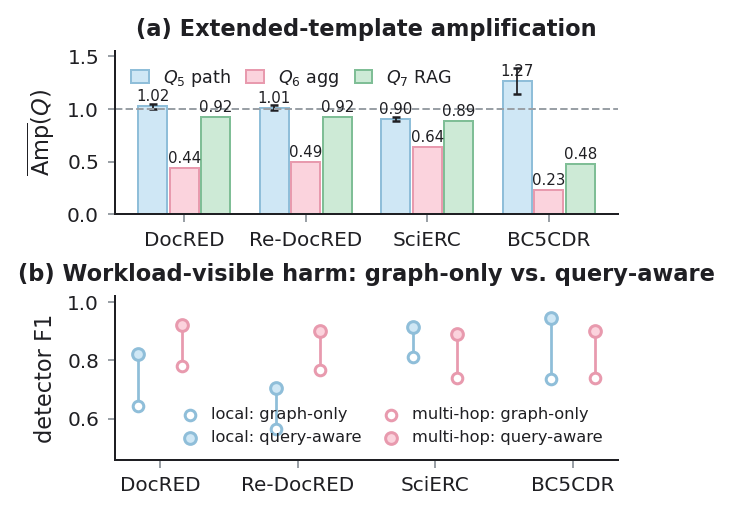
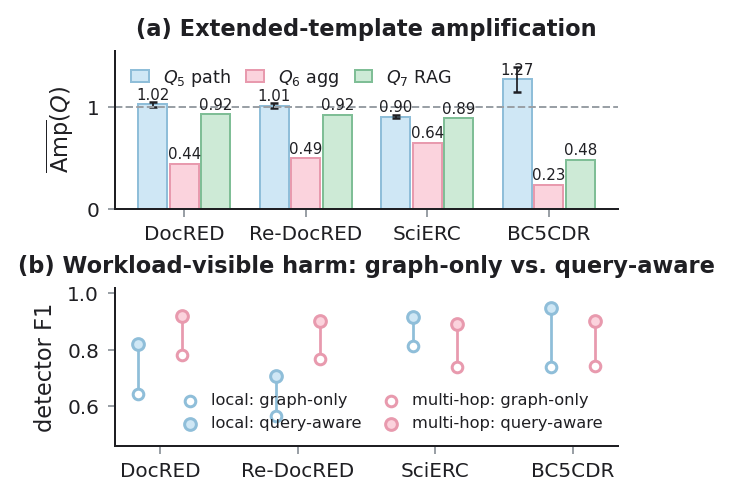
figs: 400dpi risk-coverage export, minor height rebalance across figures

diff --git a/scripts/make_paper_figures.py b/scripts/make_paper_figures.py
@@ -285,7 +285,7 @@ def replacement_amp_crossrun() -> None:
     x = np.arange(len(rows))
     w = 0.38
 
-    fig, ax = plt.subplots(figsize=(3.5, 1.62))
+    fig, ax = plt.subplots(figsize=(3.5, 1.56))
     b1 = ax.bar(x - w/2, q1, w, color=_S.BLUE, edgecolor=_S.BLUE_DARK,
                 linewidth=0.6, label=r"$Q_1$ (single-hop)")
     b2 = ax.bar(x + w/2, q3, w, color=_S.PINK, edgecolor=_S.PINK_DARK,
@@ -621,7 +621,7 @@ def make_2d_sensitivity_figure():
     # Re-DocRED and SciERC sit at 0.00 harm / >=0.99 utility over the whole
     # grid and ship in the artifact.
     shown = [c for c in CORPORA if c[1] in ("DocRED", "BC5CDR")]
-    fig, axes = plt.subplots(2, 2, figsize=(3.5, 2.2))
+    fig, axes = plt.subplots(2, 2, figsize=(3.5, 2.05))
 
     cmap_harm = mcolors.LinearSegmentedColormap.from_list(
         "harm", ["#FFFFFF", _S.PINK, _S.PINK_DARK, "#8B2D44"])

diff --git a/scripts/make_kuzu_gate_artifacts.py b/scripts/make_kuzu_gate_artifacts.py
@@ -174,7 +174,7 @@ def risk_coverage_curve(pairs, score_fn):
 def build_figure():
     # Native single-column canvas so fonts render ~1:1 in the PDF.
     gg_style.apply_rc(font_size=7)
-    fig, axes = plt.subplots(1, 4, figsize=(3.5, 1.15), sharey=True)
+    fig, axes = plt.subplots(1, 4, figsize=(3.5, 1.28), sharey=True)
     for ax, (ds_name, run) in zip(axes, DATASETS):
         pairs = load_pairs(run)
         n = len(pairs)
@@ -211,7 +211,7 @@ def build_figure():
                fontsize=6.5, frameon=False, bbox_to_anchor=(0.5, -0.06),
                handlelength=1.4, columnspacing=1.0)
     fig.tight_layout()
-    fig.savefig(OUT_FIG, dpi=200, bbox_inches="tight")
+    fig.savefig(OUT_FIG, dpi=400, bbox_inches="tight")
     print("wrote", OUT_FIG)
 
 

diff --git a/scripts/make_gate_figure.py b/scripts/make_gate_figure.py
@@ -68,7 +68,7 @@ def panel(ax, data, ylabel, ylim, annotate=True):
 
 def main() -> int:
     _S.apply_rc(font_size=9)
-    fig, (ax1, ax2) = plt.subplots(2, 1, figsize=(3.6, 2.45),
+    fig, (ax1, ax2) = plt.subplots(2, 1, figsize=(3.6, 2.35),
                                    gridspec_kw={"hspace": 0.5})
     panel(ax1, HARM, "published-harm rate", (0, 0.50))
     ax1.legend(fontsize=7, ncol=3, frameon=False, loc="upper left",

diff --git a/scripts/make_extqueries_figure.py b/scripts/make_extqueries_figure.py
@@ -45,7 +45,7 @@ def main() -> int:
     x = np.arange(len(labels))
 
     _S.apply_rc(font_size=9)
-    fig, (ax1, ax2) = plt.subplots(2, 1, figsize=(3.6, 2.95),
+    fig, (ax1, ax2) = plt.subplots(2, 1, figsize=(3.6, 2.85),
                                    gridspec_kw={"hspace": 0.5})
 
     # ---- (a) amplification ------------------------------------------------
